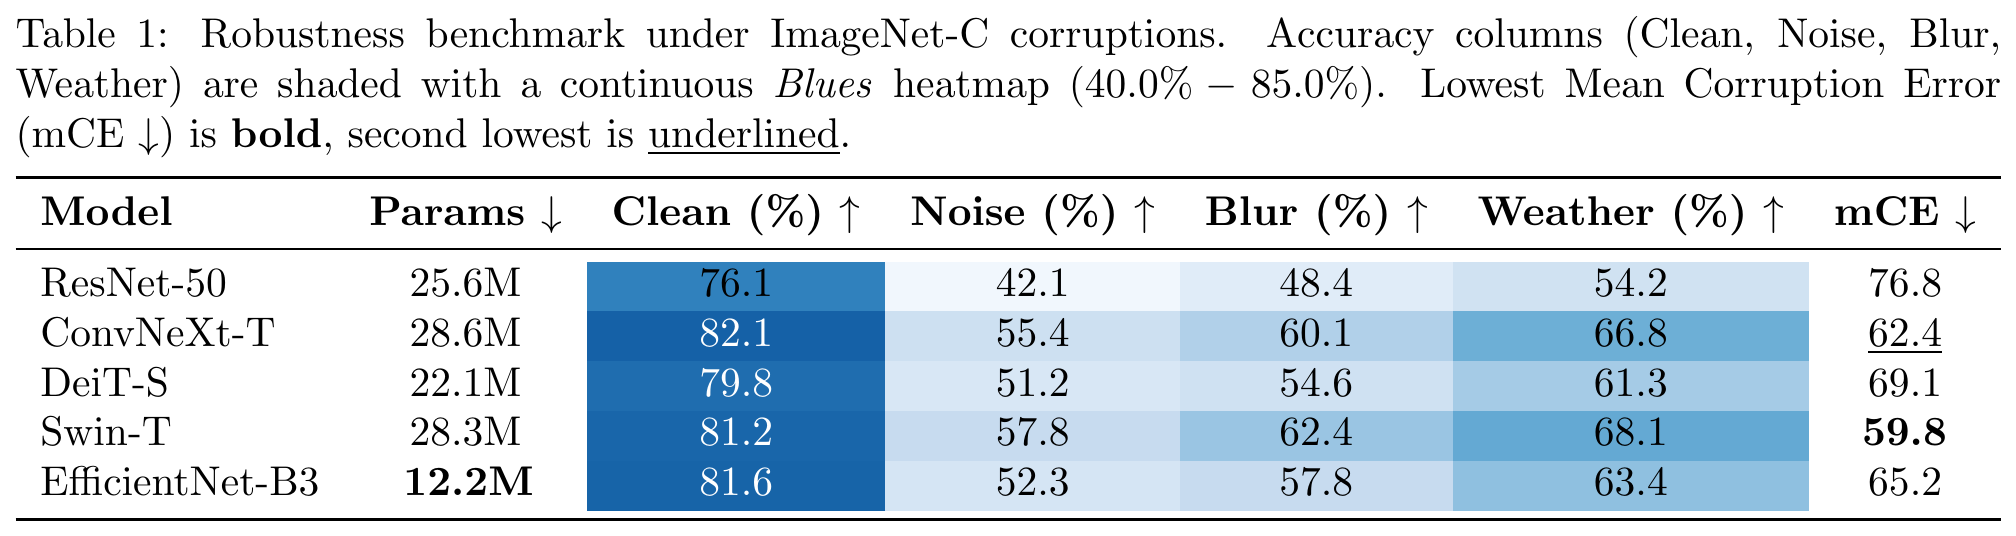
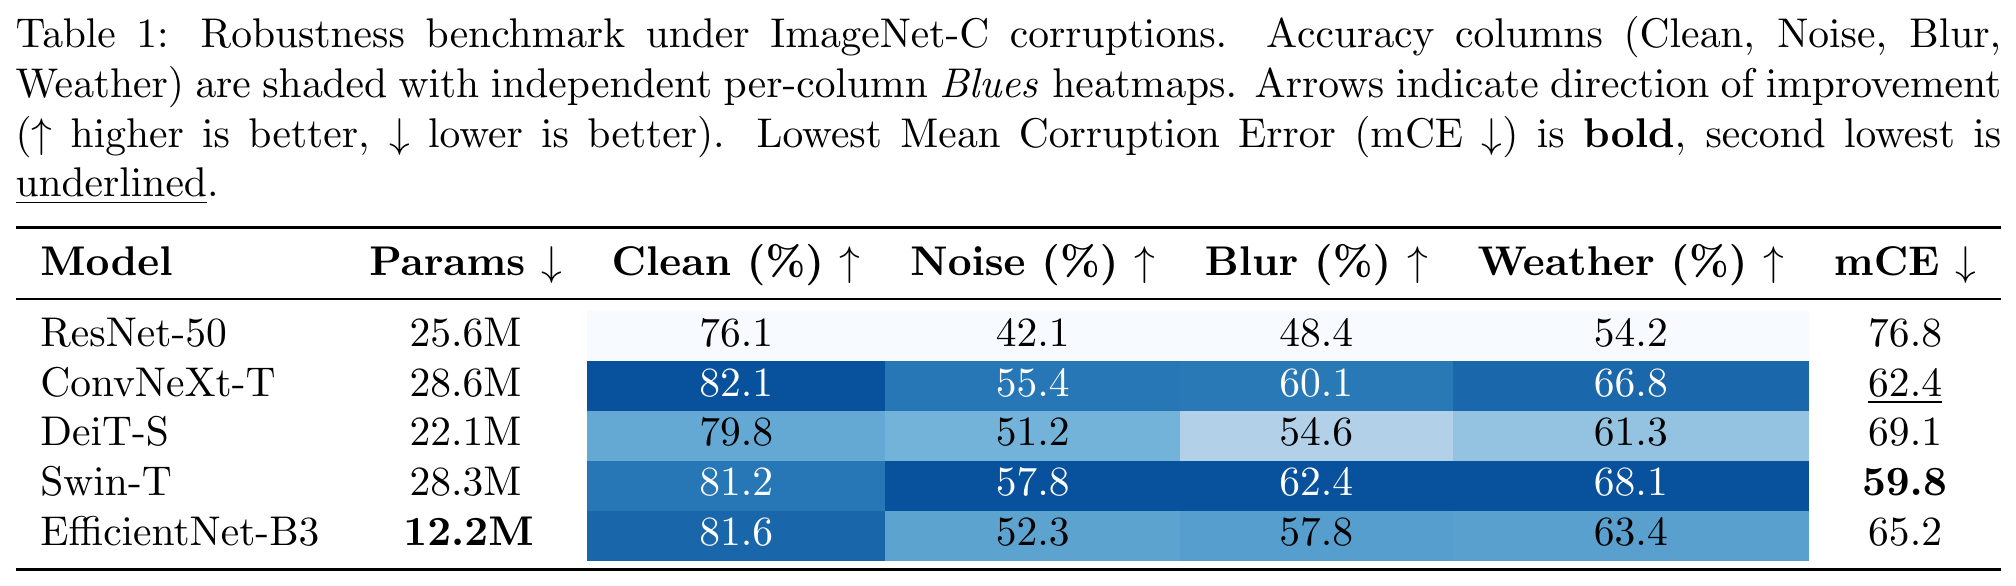
Update gradient_heatmap to use independent per-column groups and ignore Quarto outputs

diff --git a/examples/gradient_heatmap/table_output.tex b/examples/gradient_heatmap/table_output.tex
@@ -3,19 +3,20 @@
 \begin{threeparttable}
 \caption{
 Robustness benchmark under ImageNet-C corruptions.
-Accuracy columns (Clean, Noise, Blur, Weather) are shaded with a continuous \textit{Blues} heatmap ($40.0\% - 85.0\%$).
+Accuracy columns (Clean, Noise, Blur, Weather) are shaded with independent per-column \textit{Blues} heatmaps.
+Arrows indicate direction of improvement ($\uparrow$ higher is better, $\downarrow$ lower is better).
 Lowest Mean Corruption Error (mCE $\downarrow$) is \textbf{bold}, second lowest is \underline{underlined}.
 }
 \label{tab:robustness_heatmap}
 \begin{tabular}{lcccccc}
 \toprule
-\textbf{Model}  & \textbf{Params $\downarrow$}                                   & \textbf{Clean (\%) $\uparrow$}                  & \textbf{Noise (\%) $\uparrow$} & \textbf{Blur (\%) $\uparrow$} & \textbf{Weather (\%) $\uparrow$} & \textbf{mCE $\downarrow$} \\
+\textbf{Model}  & \textbf{Params $\downarrow$}                                   & \textbf{Clean (\%) $\uparrow$}                  & \textbf{Noise (\%) $\uparrow$}                  & \textbf{Blur (\%) $\uparrow$}                   & \textbf{Weather (\%) $\uparrow$}                & \textbf{mCE $\downarrow$} \\
 \midrule
-ResNet-50       & 25.6M                                                          & \cellcolor[HTML]{3081BD}76.1                    & \cellcolor[HTML]{F1F7FD}42.1   & \cellcolor[HTML]{E0ECF8}48.4  & \cellcolor[HTML]{D0E2F2}54.2     & 76.8 \\
-ConvNeXt-T      & 28.6M                                                          & \cellcolor[HTML]{1561A7}\textcolor{white}{82.1} & \cellcolor[HTML]{CDE0F1}55.4   & \cellcolor[HTML]{B1D0E9}60.1  & \cellcolor[HTML]{6DAFD6}66.8     & \underline{62.4} \\
-DeiT-S          & 22.1M                                                          & \cellcolor[HTML]{1F6DAF}\textcolor{white}{79.8} & \cellcolor[HTML]{D8E7F5}51.2   & \cellcolor[HTML]{CFE1F2}54.6  & \cellcolor[HTML]{A5CBE6}61.3     & 69.1 \\
-Swin-T          & 28.3M                                                          & \cellcolor[HTML]{1966AA}\textcolor{white}{81.2} & \cellcolor[HTML]{C7DBEF}57.8   & \cellcolor[HTML]{9AC5E3}62.4  & \cellcolor[HTML]{64A9D3}68.1     & \phantom{59}\llap{\textbf{59}}\rlap{\textbf{.8}}\phantom{.8} \\
-EfficientNet-B3 & \phantom{12}\llap{\textbf{12}}\rlap{\textbf{.2M}}\phantom{.2M} & \cellcolor[HTML]{1764A8}\textcolor{white}{81.6} & \cellcolor[HTML]{D5E5F4}52.3   & \cellcolor[HTML]{C7DBEF}57.8  & \cellcolor[HTML]{8FC0E0}63.4     & 65.2 \\
+ResNet-50       & 25.6M                                                          & \cellcolor[HTML]{F7FBFF}76.1                    & \cellcolor[HTML]{F7FBFF}42.1                    & \cellcolor[HTML]{F7FBFF}48.4                    & \cellcolor[HTML]{F7FBFF}54.2                    & 76.8 \\
+ConvNeXt-T      & 28.6M                                                          & \cellcolor[HTML]{08519C}\textcolor{white}{82.1} & \cellcolor[HTML]{2776B5}\textcolor{white}{55.4} & \cellcolor[HTML]{2979B7}\textcolor{white}{60.1} & \cellcolor[HTML]{1A67AB}\textcolor{white}{66.8} & \underline{62.4} \\
+DeiT-S          & 22.1M                                                          & \cellcolor[HTML]{64A9D3}79.8                    & \cellcolor[HTML]{74B3D9}51.2                    & \cellcolor[HTML]{B2D1E9}54.6                    & \cellcolor[HTML]{94C2E1}61.3                    & 69.1 \\
+Swin-T          & 28.3M                                                          & \cellcolor[HTML]{2776B5}\textcolor{white}{81.2} & \cellcolor[HTML]{08519C}\textcolor{white}{57.8} & \cellcolor[HTML]{08519C}\textcolor{white}{62.4} & \cellcolor[HTML]{08519C}\textcolor{white}{68.1} & \phantom{59}\llap{\textbf{59}}\rlap{\textbf{.8}}\phantom{.8} \\
+EfficientNet-B3 & \phantom{12}\llap{\textbf{12}}\rlap{\textbf{.2M}}\phantom{.2M} & \cellcolor[HTML]{1966AA}\textcolor{white}{81.6} & \cellcolor[HTML]{5DA3D0}52.3                    & \cellcolor[HTML]{569ECD}57.8                    & \cellcolor[HTML]{59A0CE}63.4                    & 65.2 \\
 \bottomrule
 \end{tabular}
 \end{threeparttable}

diff --git a/examples/gradient_heatmap/template.tex b/examples/gradient_heatmap/template.tex
@@ -3,7 +3,8 @@
 \begin{threeparttable}
 \caption{
 Robustness benchmark under ImageNet-C corruptions.
-Accuracy columns (Clean, Noise, Blur, Weather) are shaded with a continuous \textit{Blues} heatmap ($40.0\% - 85.0\%$).
+Accuracy columns (Clean, Noise, Blur, Weather) are shaded with independent per-column \textit{Blues} heatmaps.
+Arrows indicate direction of improvement ($\uparrow$ higher is better, $\downarrow$ lower is better).
 Lowest Mean Corruption Error (mCE $\downarrow$) is \textbf{bold}, second lowest is \underline{underlined}.
 }
 \label{tab:robustness_heatmap}
@@ -11,11 +12,11 @@ Lowest Mean Corruption Error (mCE $\downarrow$) is \textbf{bold}, second lowest 
 \toprule
 \textbf{Model} & \textbf{Params $\downarrow$} & \textbf{Clean (\%) $\uparrow$} & \textbf{Noise (\%) $\uparrow$} & \textbf{Blur (\%) $\uparrow$} & \textbf{Weather (\%) $\uparrow$} & \textbf{mCE $\downarrow$} \\
 \midrule
-ResNet-50       & [params]{resnet50.params}   & [corruption]{resnet50.clean}   & [corruption]{resnet50.noise}   & [corruption]{resnet50.blur}   & [corruption]{resnet50.weather}   & [mce]{resnet50.mce} \\
-ConvNeXt-T      & [params]{convnext_t.params} & [corruption]{convnext_t.clean} & [corruption]{convnext_t.noise} & [corruption]{convnext_t.blur} & [corruption]{convnext_t.weather} & [mce]{convnext_t.mce} \\
-DeiT-S          & [params]{deit_s.params}     & [corruption]{deit_s.clean}     & [corruption]{deit_s.noise}     & [corruption]{deit_s.blur}     & [corruption]{deit_s.weather}     & [mce]{deit_s.mce} \\
-Swin-T          & [params]{swin_t.params}     & [corruption]{swin_t.clean}     & [corruption]{swin_t.noise}     & [corruption]{swin_t.blur}     & [corruption]{swin_t.weather}     & [mce]{swin_t.mce} \\
-EfficientNet-B3 & [params]{effnet_b3.params}  & [corruption]{effnet_b3.clean}  & [corruption]{effnet_b3.noise}  & [corruption]{effnet_b3.blur}  & [corruption]{effnet_b3.weather}  & [mce]{effnet_b3.mce} \\
+ResNet-50       & [params]{resnet50.params}   & [clean]{resnet50.clean}   & [noise]{resnet50.noise}   & [blur]{resnet50.blur}   & [weather]{resnet50.weather}   & [mce]{resnet50.mce} \\
+ConvNeXt-T      & [params]{convnext_t.params} & [clean]{convnext_t.clean} & [noise]{convnext_t.noise} & [blur]{convnext_t.blur} & [weather]{convnext_t.weather} & [mce]{convnext_t.mce} \\
+DeiT-S          & [params]{deit_s.params}     & [clean]{deit_s.clean}     & [noise]{deit_s.noise}     & [blur]{deit_s.blur}     & [weather]{deit_s.weather}     & [mce]{deit_s.mce} \\
+Swin-T          & [params]{swin_t.params}     & [clean]{swin_t.clean}     & [noise]{swin_t.noise}     & [blur]{swin_t.blur}     & [weather]{swin_t.weather}     & [mce]{swin_t.mce} \\
+EfficientNet-B3 & [params]{effnet_b3.params}  & [clean]{effnet_b3.clean}  & [noise]{effnet_b3.noise}  & [blur]{effnet_b3.blur}  & [weather]{effnet_b3.weather}  & [mce]{effnet_b3.mce} \\
 \bottomrule
 \end{tabular}
 \end{threeparttable}
